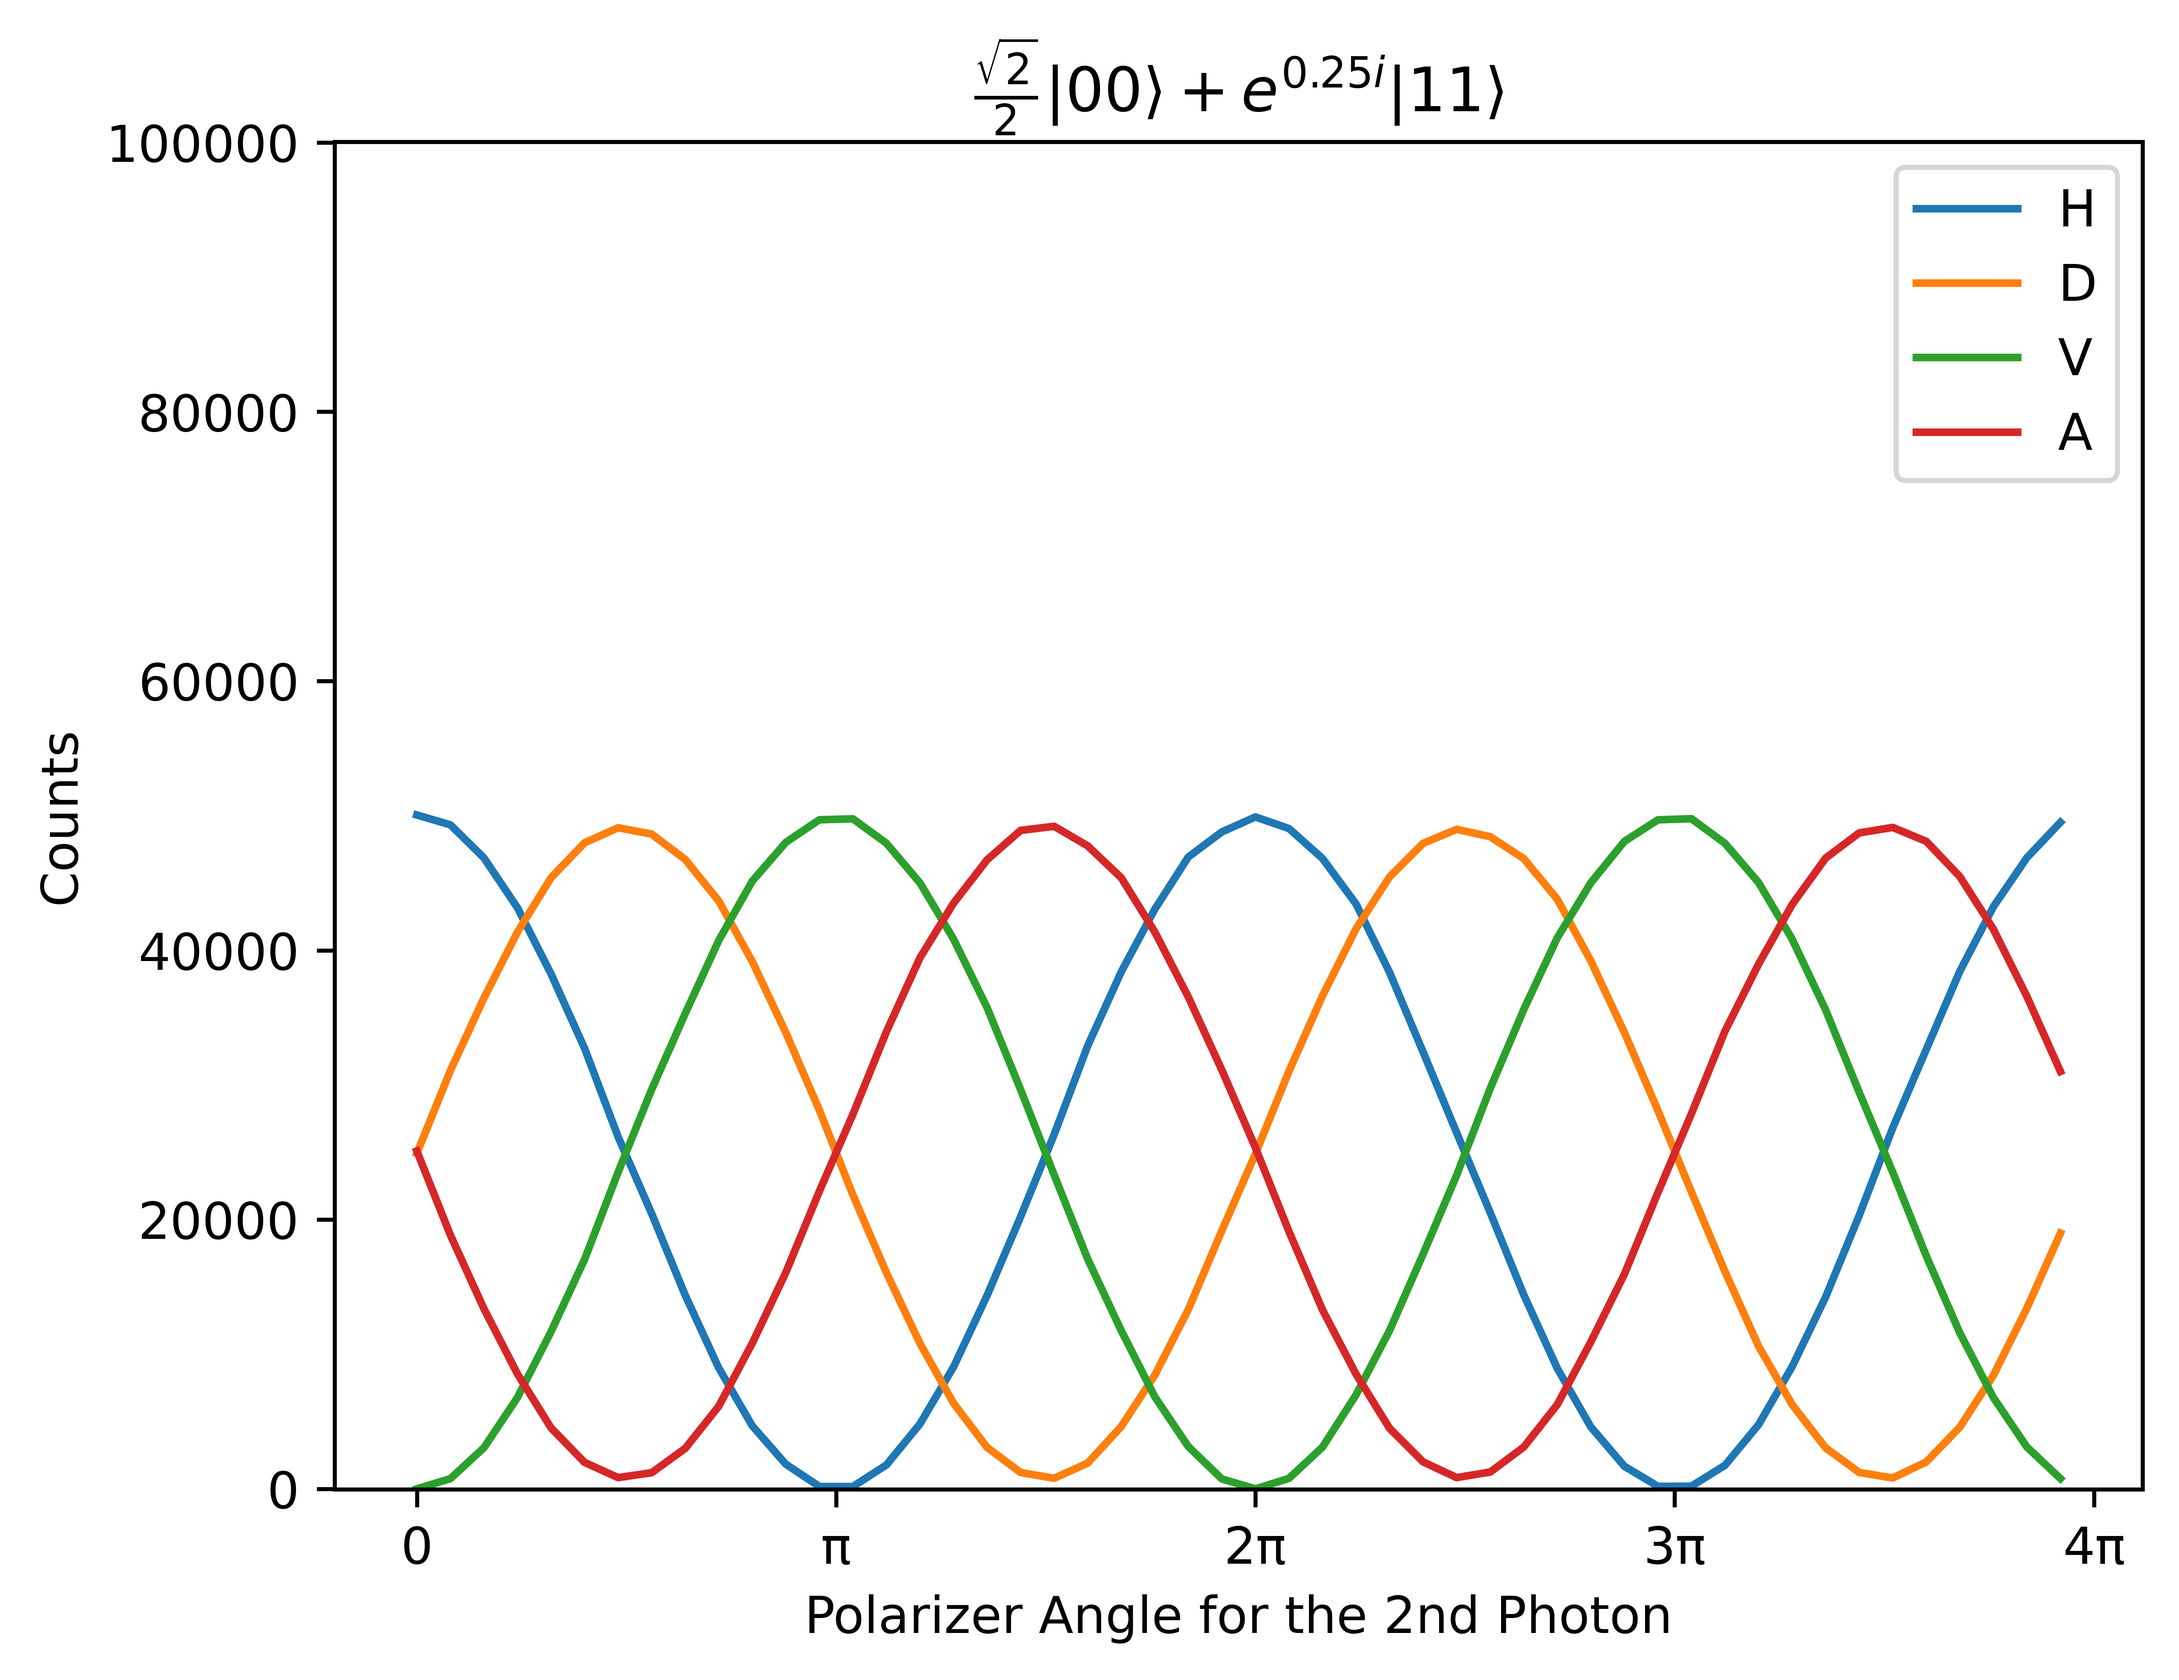
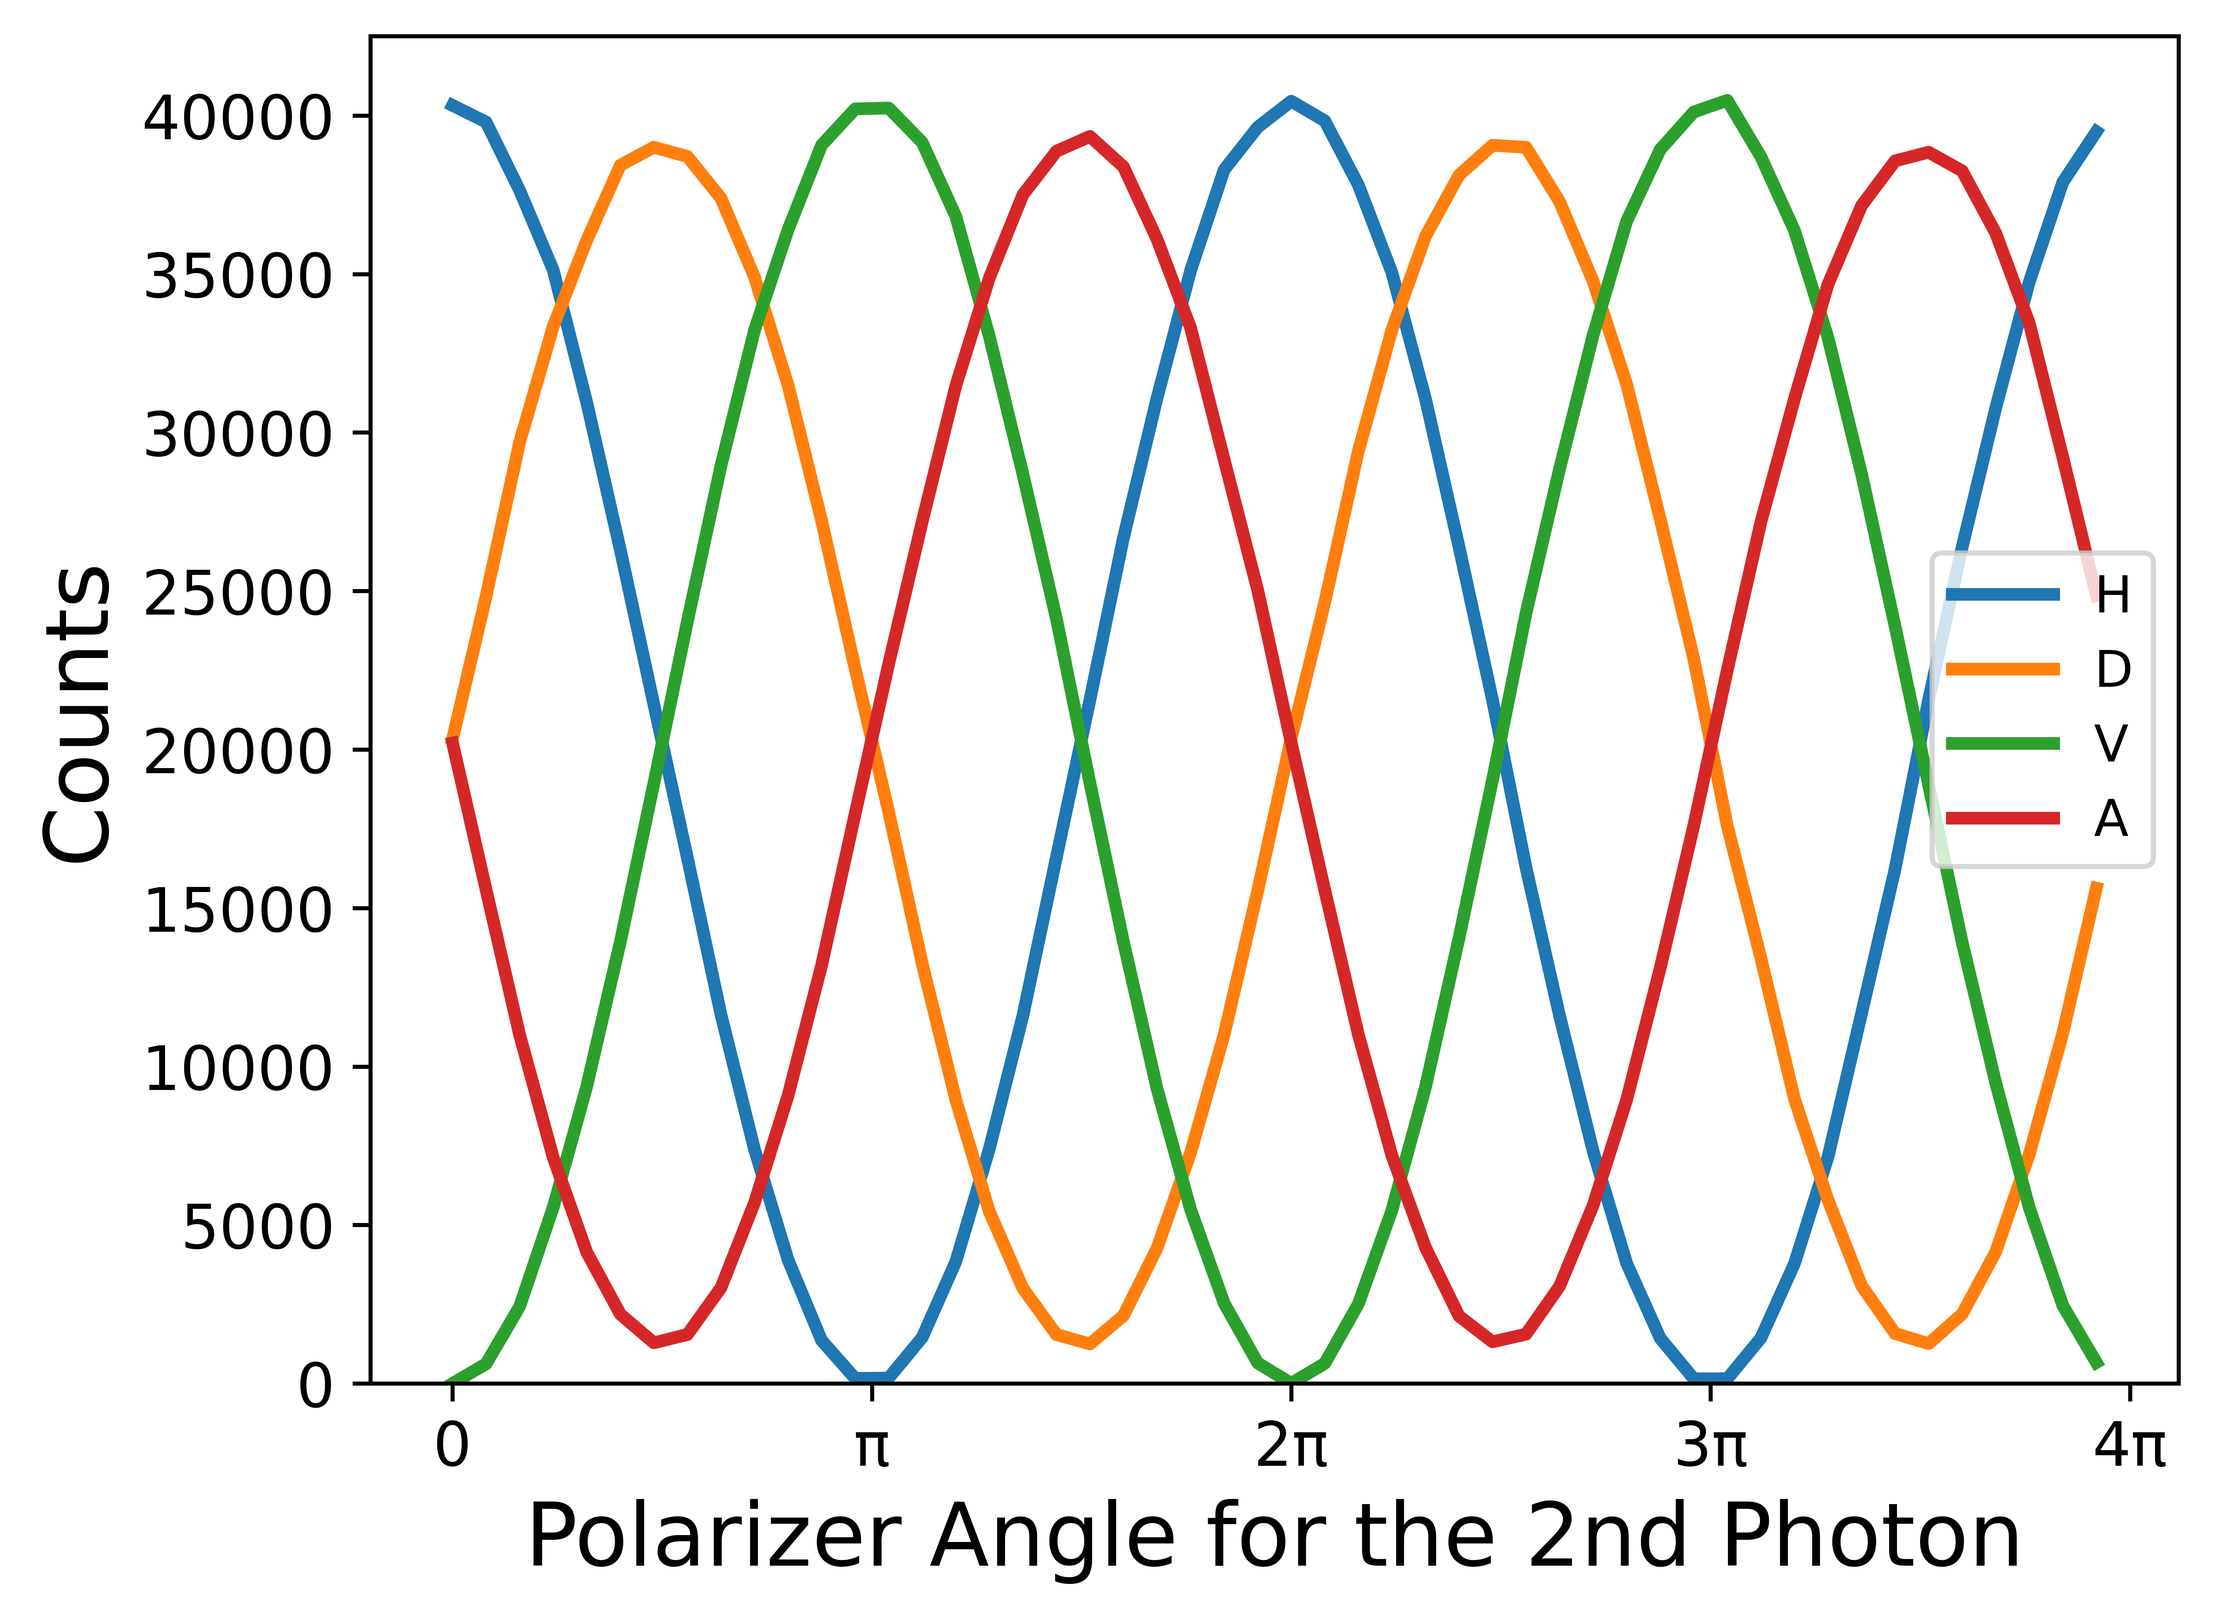
increased axis label size for the rest of the plots

diff --git a/simulations_with_practical_issues/plot.py b/simulations_with_practical_issues/plot.py
@@ -43,9 +43,11 @@ def plot_g2_ambient(yaml_fn, ambient, colors=None, savefig=True):
 
             bar()
 
-    plt.xlabel('Time difference (ps)')
-    plt.ylabel('Counts')
-    plt.legend(title='Ambient light counts per second')
+    plt.legend(title='Ambient light counts per second', title_fontsize='x-large', fontsize='large', loc=2)
+    plt.xlabel('Time difference (ns)', fontsize='xx-large')
+    plt.ylabel('Counts', fontsize='xx-large')
+    plt.xticks(fontsize='large')
+    plt.yticks(fontsize='large')
     plt.yscale('log')
     plt.ylim(0.5, 10**math.ceil(math.log10(max_max) + 0.5))
 
@@ -97,9 +99,11 @@ def plot_g2_darkcounts(yaml_fn, dc, colors=None, savefig=True):
 
             bar()
 
-    plt.xlabel('Time difference (ps)')
-    plt.ylabel('Counts')
-    plt.legend(title='Dark counts per second')
+    plt.legend(title='Dark counts per second', title_fontsize='x-large', fontsize='large', loc=2)
+    plt.xlabel('Time difference (ns)', fontsize='xx-large')
+    plt.ylabel('Counts', fontsize='xx-large')
+    plt.xticks(fontsize='large')
+    plt.yticks(fontsize='large')
     plt.yscale('log')
     plt.ylim(0.5, 10**math.ceil(math.log10(max_max) + 0.5))
 
@@ -152,9 +156,11 @@ def plot_g2_deadtime(yaml_fn, deadtime, colors=None, savefig=True):
 
             bar()
 
-    plt.xlabel('Time difference (ps)')
-    plt.ylabel('Counts')
-    plt.legend(title='Dead time (ps)')
+    plt.legend(title='Dead time (ps)', title_fontsize='x-large', fontsize='large', loc=2)
+    plt.xlabel('Time difference (ns)', fontsize='xx-large')
+    plt.ylabel('Counts', fontsize='xx-large')
+    plt.xticks(fontsize='large')
+    plt.yticks(fontsize='large')
     plt.yscale('log')
     plt.ylim(0.5, 10 ** math.ceil(math.log10(sim.coincidences) + 0.5))
 
@@ -231,9 +237,11 @@ def plot_g2_jitter(yaml_fn, jitter, colors=None, fwhm=False, savefig=True):
                         plt.text(r_lim, half_max, str(int(r_lim - l_lim)), color=colors[i], fontsize='large')
             bar()
 
+    plt.legend(title='Jitter FWHM', title_fontsize='x-large', fontsize='large', loc=2)
     plt.xlabel('Time difference (ns)', fontsize='xx-large')
     plt.ylabel('Counts', fontsize='xx-large')
-    plt.legend(title='Jitter FWHM', title_fontsize='x-large', fontsize='large', loc=2)
+    plt.xticks(ticks_ps, ticks_ns, fontsize='large')
+    plt.yticks(fontsize='large')
     plt.xlim(-20000, 20000)
     plt.yscale('log')
     plt.ylim(10)
@@ -241,8 +249,6 @@ def plot_g2_jitter(yaml_fn, jitter, colors=None, fwhm=False, savefig=True):
     ticks_ns = np.zeros(ticks_ps.shape, np.int64)
     for i in range(len(ticks_ps)):
         ticks_ns[i] = int(ticks_ps[i] / 1000)
-    plt.xticks(ticks_ps, ticks_ns, fontsize='large')
-    plt.yticks(fontsize='large')
 
     if fwhm:
         fwhm_str = '_fwhm'
@@ -303,10 +309,12 @@ def plot_g2_loss(yaml_fn, loss, colors=None, savefig=True):
 
             bar()
 
-    plt.xlabel('Time difference (ps)')
-    plt.ylabel('Counts')
     plt.xlim(-10000, 10000)
-    plt.legend(title='Optical Loss (dB)')
+    plt.legend(title='Optical Loss (dB)', title_fontsize='x-large', fontsize='large', loc=2)
+    plt.xlabel('Time difference (ns)', fontsize='xx-large')
+    plt.ylabel('Counts', fontsize='xx-large')
+    plt.xticks(fontsize='large')
+    plt.yticks(fontsize='large')
     plt.yscale('log')
     plt.ylim(0.5, 10**math.ceil(math.log10(max_max) + 0.5))
 
@@ -349,9 +357,11 @@ def plot_car_ambient(yaml_fn, start, stop, num_points, savefig=True):
             y_val.append(sim.car)
             bar()
 
-    plt.plot(x_val, y_val)
-    plt.xlabel('Ambient Light Count Rate (counts/second)')
-    plt.ylabel('Coincidence-to-Accidental Rate')
+    plt.plot(x_val, y_val, linewidth=2)
+    plt.xlabel('Ambient Light Count Rate (counts/second)', fontsize='xx-large')
+    plt.ylabel('CAR', fontsize='xx-large')
+    plt.xticks(fontsize='large')
+    plt.yticks(fontsize='large')
 
     if savefig:
         title = 'plots\\car\\car_vs_ambientlight\\' + \
@@ -392,9 +402,11 @@ def plot_car_darkcounts(yaml_fn, start, stop, num_points, savefig=True):
             y_val.append(sim.car)
             bar()
 
-    plt.plot(x_val, y_val)
-    plt.xlabel('Dark Count Rate (counts/second)')
-    plt.ylabel('Coincidence-to-Accidental Rate')
+    plt.plot(x_val, y_val, linewidth=2)
+    plt.xlabel('Dark Count Rate (counts/second)', fontsize='xx-large')
+    plt.ylabel('CAR', fontsize='xx-large')
+    plt.xticks(fontsize='large')
+    plt.yticks(fontsize='large')
 
     if savefig:
         title = 'plots\\car\\car_vs_darkcounts\\' + \
@@ -435,9 +447,11 @@ def plot_car_deadtime(yaml_fn, start, stop, num_points, savefig=True):
             y_val.append(sim.car)
             bar()
 
-    plt.plot(x_val, y_val)
-    plt.xlabel('Dead Time (ps)')
-    plt.ylabel('Coincidence-to-Accidental Rate')
+    plt.plot(x_val, y_val, linewidth=2)
+    plt.xlabel('Dead Time (ps)', fontsize='xx-large')
+    plt.ylabel('CAR', fontsize='xx-large')
+    plt.xticks(fontsize='large')
+    plt.yticks(fontsize='large')
 
     if savefig:
         title = 'plots\\car\\car_vs_deadtime\\' + \
@@ -478,9 +492,11 @@ def plot_car_jitter(yaml_fn, start, stop, num_points, savefig=True):
             y_val.append(sim.car)
             bar()
 
-    plt.plot(x_val, y_val)
-    plt.xlabel('Jitter FWHM (ps)')
-    plt.ylabel('Coincidence-to-Accidental Rate')
+    plt.plot(x_val, y_val, linewidth=2)
+    plt.xlabel('Jitter FWHM (ps)', fontsize='xx-large')
+    plt.ylabel('CAR', fontsize='xx-large')
+    plt.xticks(fontsize='large')
+    plt.yticks(fontsize='large')
 
     if savefig:
         title = 'plots\\car\\car_vs_jitter\\' + \
@@ -585,10 +601,11 @@ def plot_visibility_ambient(yaml_fn, state, start, stop, num_points, rotations=5
             bar()
 
     for i in range(4):
-        plt.plot(x_val, y_val[i], label=states[i])
-    plt.legend()
-    plt.xlabel('Ambient Light Count Rate (counts/second)')
-    plt.ylabel('Visibility')
+        plt.plot(x_val, y_val[i], label=states[i], linewidth=2)
+
+    plt.xlabel('Ambient Light Count Rate (counts/second)', fontsize='xx-large')
+    plt.ylabel('Visibility', fontsize='xx-large')
+    plt.legend(fontsize='large')
     plt.ylim(-0.01, 1.01)
 
     if savefig:
@@ -634,10 +651,11 @@ def plot_visibility_darkcounts(yaml_fn, state, start, stop, num_points, rotation
             bar()
 
     for i in range(4):
-        plt.plot(x_val, y_val[i], label=states[i])
-    plt.legend()
-    plt.xlabel('Dark Count Rate (counts/second)')
-    plt.ylabel('Visibility')
+        plt.plot(x_val, y_val[i], label=states[i], linewidth=2)
+
+    plt.xlabel('Dark Count Rate (counts/second)', fontsize='xx-large')
+    plt.ylabel('Visibility', fontsize='xx-large')
+    plt.legend(fontsize='large')
     plt.ylim(-0.01, 1.01)
 
     if savefig:
@@ -683,10 +701,11 @@ def plot_visibility_deadtime(yaml_fn, state, start, stop, num_points, rotations=
             bar()
 
     for i in range(4):
-        plt.plot(x_val, y_val[i], label=states[i])
-    plt.legend()
-    plt.xlabel('Dead Time (ps)')
-    plt.ylabel('Visibility')
+        plt.plot(x_val, y_val[i], label=states[i], linewidth=2)
+
+    plt.xlabel('Dead Time (ps)', fontsize='xx-large')
+    plt.ylabel('Visibility', fontsize='xx-large')
+    plt.legend(fontsize='large')
     plt.ylim(-0.01, 1.01)
 
     if savefig:
@@ -733,10 +752,11 @@ def plot_visibility_jitter(yaml_fn, state, start, stop, num_points, rotations=50
             bar()
 
     for i in range(4):
-        plt.plot(x_val, y_val[i], label=states[i])
-    plt.legend()
-    plt.xlabel('Jitter FWHM (ps)')
-    plt.ylabel('Visibility')
+        plt.plot(x_val, y_val[i], label=states[i], linewidth=2)
+
+    plt.xlabel('Jitter FWHM (ps)', fontsize='xx-large')
+    plt.ylabel('Visibility', fontsize='xx-large')
+    plt.legend(fontsize='large')
     plt.ylim(-0.01, 1.01)
 
     if savefig:
@@ -783,10 +803,11 @@ def plot_visibility_loss(yaml_fn, state, start, stop, num_points, rotations=50, 
             bar()
 
     for i in range(4):
-        plt.plot(np.linspace(start, stop, num_points), y_val[i], label=states[i])
-    plt.legend()
-    plt.xlabel('Optical Loss (dB)')
-    plt.ylabel('Visibility')
+        plt.plot(np.linspace(start, stop, num_points), y_val[i], label=states[i], linewidth=2)
+
+    plt.xlabel('Optical Loss (dB)', fontsize='xx-large')
+    plt.ylabel('Visibility', fontsize='xx-large')
+    plt.legend(fontsize='large')
     plt.ylim(-0.01, 1.01)
 
     if savefig:
@@ -832,9 +853,10 @@ def plot_visibility_phasediff(yaml_fn, start, stop, num_points, rotations=50, sa
 
     for i in range(4):
         plt.plot(x_val, y_val[i], label=states[i], linewidth=2)
-    plt.legend(fontsize='large')
+
     plt.xlabel('Phase Difference', fontsize='xx-large')
     plt.ylabel('Visibility', fontsize='xx-large')
+    plt.legend(fontsize='large')
     plt.ylim(-0.01, 1.01)
 
     num_ticks = math.floor((stop + 0.1)/math.pi)
@@ -849,7 +871,7 @@ def plot_visibility_phasediff(yaml_fn, start, stop, num_points, rotations=50, sa
     plt.yticks(fontsize='large')
 
     if savefig:
-        title = 'plots\\visibility\\visibility_vs_deadtime\\' + \
+        title = 'plots\\visibility\\visibility_vs_phasediff\\' + \
                 'λ=' + str(sim.lambd) + ',' + \
                 '𝜏=' + str(sim.delay) + ',' + \
                 str(sim.total_time) + 's,' + \
@@ -876,7 +898,7 @@ if __name__ == '__main__':
     # plot_car_darkcounts('config.yaml', 0, 1000000, 1024)
     # plot_car_deadtime('config.yaml', 0, 1000000, 64)
     # plot_car_jitter('config.yaml', 0, 10000, 256)
-    plot_car_loss('config.yaml', 0, 60, 1024, theoretical=True, savefig=False)
+    plot_car_loss('config.yaml', 0, 60, 256, theoretical=True, savefig=False)
 
     d = .25
     qubit_state = [1 / math.sqrt(2), 0, 0, np.exp(1j * d) / math.sqrt(2)]
@@ -885,7 +907,7 @@ if __name__ == '__main__':
     # plot_visibility_deadtime('config.yaml', qubit_state, 0, 1000000, 8)
     # plot_visibility_jitter('config.yaml', qubit_state, 0, 100000, 8)
     # plot_visibility_loss('config.yaml', qubit_state, 0, 30, 8)
-    # plot_visibility_phasediff('config.yaml', 0, 4*math.pi, 64)
+    # plot_visibility_phasediff('config.yaml', 0, 4*math.pi, 64, savefig=False)
 
 #
 #               _=-

diff --git a/simulations_with_practical_issues/misc/visualization_plots/time_tagger_plot.py b/simulations_with_practical_issues/misc/visualization_plots/time_tagger_plot.py
@@ -141,6 +141,6 @@ for x in timestamps:
     dt.fill(x_val, y_val, c='#a7cef1')
 dt.stem(timestamps, [1]*len(timestamps), basefmt='k')
 
-plt.savefig('time_tagger_plot.eps', format='eps', bbox_inches='tight')
-# plt.savefig('time_tagger_plot.png', dpi=1000)
+# plt.savefig('time_tagger_plot.eps', format='eps', bbox_inches='tight')
+plt.savefig('time_tagger_plot.png', bbox_inches='tight', dpi=1000)
 plt.show()
